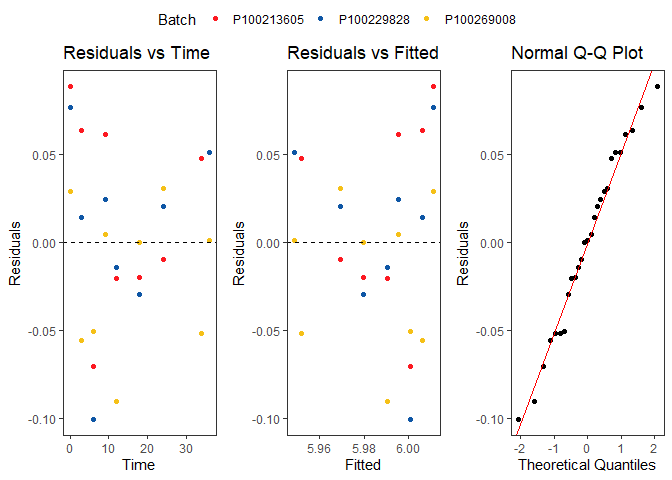
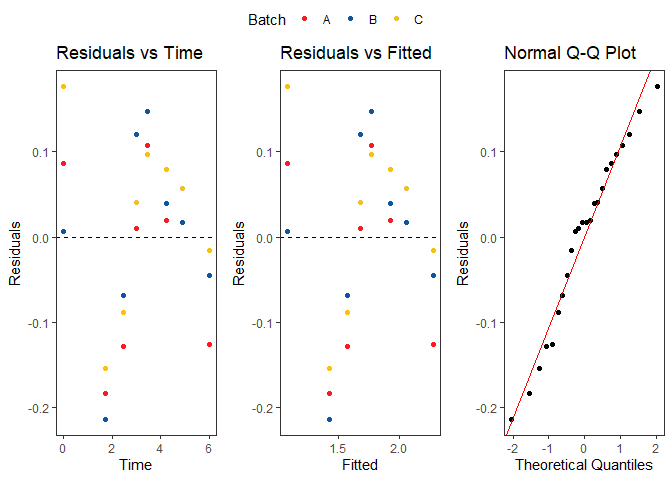
Updated Example Data

diff --git a/README.md b/README.md
@@ -26,10 +26,12 @@ pak::pak("joanna-ling/stability")
 This is a basic example which shows you how to solve a common problem:
 
 ``` r
+
+# pak::pak("joanna-ling/stability")
+
 #### Load Required Packages ####
 if (!require("pacman")) install.packages("pacman")
 #> Loading required package: pacman
-#> Warning: package 'pacman' was built under R version 4.3.2
 
 suppressMessages(
   pacman::p_load(
@@ -43,43 +45,57 @@ suppressMessages(
   )
 )
 
-# Load example dataset from stability package
-data(example_data)
+# Generate example data for a stability study
+set.seed(873951)
+example_data <- tibble(quality_attribute = c("SE HPLC HMWS", "pH", "CE Reducing Main Peak")) %>% 
+  cross_join(tibble(time_months = c(0, 3, 6, 9, 12, 18, 24, 36))) %>%
+  cross_join(tibble(batch = c("A", "B", "C"))) %>% 
+  mutate(result_value = case_when(quality_attribute == "pH" ~ round(runif(n(), min = 5.9, max = 6.1),2),
+                           quality_attribute == "SE HPLC HMWS" & time_months == 0 ~ round(rnorm(n(), mean = 1.2, sd = 0.05),2),
+                           quality_attribute == "SE HPLC HMWS" & time_months == 3 ~ round(rnorm(n(), mean = 1.3, sd = 0.05),2),
+                           quality_attribute == "SE HPLC HMWS" & time_months == 6 ~ round(rnorm(n(), mean = 1.5, sd = 0.05),2),
+                           quality_attribute == "SE HPLC HMWS" & time_months == 9 ~ round(rnorm(n(), mean = 1.7, sd = 0.05),2),
+                           quality_attribute == "SE HPLC HMWS" & time_months == 12 ~ round(rnorm(n(), mean = 1.9, sd = 0.05),2),
+                           quality_attribute == "SE HPLC HMWS" & time_months == 18 ~ round(rnorm(n(), mean = 2, sd = 0.05),2),
+                           quality_attribute == "SE HPLC HMWS" & time_months == 24 ~ round(rnorm(n(), mean = 2.1, sd = 0.05),2),
+                           quality_attribute == "SE HPLC HMWS" & time_months == 36 ~ round(rnorm(n(), mean = 2.2, sd = 0.05),2),
+                           quality_attribute == "CE Reducing Main Peak" & time_months == 0 ~ round(rnorm(n(), mean = 97, sd = 0.07),2),
+                           quality_attribute == "CE Reducing Main Peak" & time_months == 3 ~ round(rnorm(n(), mean = 96.8, sd = 0.07),2),
+                           quality_attribute == "CE Reducing Main Peak" & time_months == 6 ~ round(rnorm(n(), mean = 96.6, sd = 0.07),2),
+                           quality_attribute == "CE Reducing Main Peak" & time_months == 9 ~ round(rnorm(n(), mean = 96.4, sd = 0.07),2),
+                           quality_attribute == "CE Reducing Main Peak" & time_months == 12 ~ round(rnorm(n(), mean = 96.3, sd = 0.07),2),
+                           quality_attribute == "CE Reducing Main Peak" & time_months == 18 ~ round(rnorm(n(), mean = 96.2, sd = 0.07),2),
+                           quality_attribute == "CE Reducing Main Peak" & time_months == 24 ~ round(rnorm(n(), mean = 96.1, sd = 0.07),2),
+                           quality_attribute == "CE Reducing Main Peak" & time_months == 36 ~ round(rnorm(n(), mean = 96.0, sd = 0.07),2),
+                           TRUE ~ NA),
+         lower_limit = case_when(quality_attribute == "pH" ~ 5.8,
+                                 quality_attribute == "CE Reducing Main Peak" ~ 94.5,
+                                 TRUE ~ NA),
+         upper_limit = case_when(quality_attribute == "pH" ~ 6.2,
+                                 quality_attribute == "SE HPLC HMWS" ~ 4.3,
+                                 TRUE ~ NA),
+         units = case_when(quality_attribute == "pH" ~ "",
+                           quality_attribute == "SE HPLC HMWS" ~ "%",
+                           quality_attribute == "CE Reducing Main Peak" ~ "%",
+                           TRUE ~ NA),
+         label = case_when(quality_attribute == "pH" ~ "pH",
+                          TRUE ~ paste0(quality_attribute, " (", units, ")")),
+         time = time_months)
 
-# Clean variable names, rename variables to required names, exclude unrelated data points 
-data <- example_data %>% 
-  clean_names() %>% 
-  mutate(time = time_months,
-         batch = lot) %>% 
-  subset(!(temperature == "2 to 8°C" & time == 36)) %>% 
-  # This part is manually removing values that are different from the report... 
-  mutate(flag = case_when(quality_attribute == "SE HPLC Monomer" & result_value == 97.2 & time == 3 & batch == "P100213605" ~ 1,
-                          quality_attribute == "SE HPLC Monomer" & result_value == 97.5 & time == 3 & batch == "P100229828" ~ 1,
-                          quality_attribute == "SE HPLC Monomer" & result_value == 97.5 & time == 9 & batch == "P100229828" ~ 1,
-                          quality_attribute == "SE HPLC HMWS" & result_value == 3.0 & time == 3 & batch == "P100213605" ~ 1,
-                          quality_attribute == "SE HPLC HMWS" & result_value == 2.1 & time == 3 & batch == "P100229828" ~ 1,
-                          quality_attribute == "SE HPLC HMWS" & result_value == 2.5 & time == 9 & batch == "P100229828" ~ 1,
-                          TRUE ~ 0 )) %>% 
-  subset(flag == 0)
+
 
 # Get a dataset of distinct limits and generate clean labels 
-data_dist <- data[,c("quality_attribute","units","lower_limit","upper_limit")] %>% 
+data_dist <- example_data[,c("quality_attribute","units","label","lower_limit","upper_limit")] %>% 
   distinct() %>% 
-  subset(!is.na(lower_limit) | !is.na(upper_limit)) %>% 
-  mutate(label = case_when(units == "N/A" ~ paste0(quality_attribute),
-                           TRUE ~ paste0(quality_attribute," (",units,")")))
+  subset(!is.na(lower_limit) | !is.na(upper_limit)) 
 
 # Transform time variable where needed and generate back transform variable - trial and error
-data_transf <- data %>% 
-  mutate(time = case_when(quality_attribute == "SE HPLC Monomer" ~ sqrt(time),
-                          quality_attribute == "SE HPLC HMWS" ~ sqrt(time),
-                          quality_attribute == "CE reducing" ~ sqrt(time),
-                          quality_attribute == "CE non reducing LMWS" ~ sqrt(time),
+data_transf <- example_data %>% 
+  mutate(time = case_when(quality_attribute == "SE HPLC HMWS" ~ time^(1/2),
+                          quality_attribute == "CE Reducing Main Peak" ~ time^(1/3),
                           TRUE ~ time),
-         backtransform = case_when(quality_attribute == "SE HPLC Monomer" ~ "Time^2",
-                                   quality_attribute == "SE HPLC HMWS" ~ "Time^2",
-                                   quality_attribute == "CE reducing" ~ "Time^2",
-                                   quality_attribute == "CE non reducing LMWS" ~ "Time^2",
+         backtransform = case_when(quality_attribute == "SE HPLC HMWS" ~ "Time^2",
+                                   quality_attribute == "CE Reducing Main Peak" ~ "Time^3",
                                    TRUE ~ "Time"))
 
 # Set colours using all batches in dataset
@@ -129,48 +145,46 @@ stab[[1]]
 #> [1] "Common intercepts and Common slopes"
 #> 
 #> [[3]]
-#> # A tibble: 11 × 15
-#> # Groups:   model, batch, flag [11]
-#>    batch     time   fit lwr90 upr90 lwr95 upr95 model diff_lwr flag_lwr diff_upr
-#>    <chr>    <dbl> <dbl> <dbl> <dbl> <dbl> <dbl> <dbl>    <dbl>    <dbl>    <dbl>
-#>  1 P100213…  78.6  5.89  5.73  6.05  5.70  6.08     1  1.58e-7        1  2.15e-1
-#>  2 P100229…  71.7  5.87  5.73  6.01  5.70  6.04     1  1.28e-6        1  2.56e-1
-#>  3 P100269…  74.0  5.88  5.73  6.03  5.70  6.06     1  1.48e-6        1  2.42e-1
-#>  4 P100213… 105.   5.85  5.73  5.98  5.70  6.00     2  1.86e-6        1  2.98e-1
-#>  5 P100229…  97.8  5.84  5.72  5.96  5.70  5.98     2  2.65e-6        1  3.20e-1
-#>  6 P100269…  92.0  5.83  5.72  5.94  5.70  5.96     2  3.01e-6        1  3.38e-1
-#>  7 0         98.4  5.84  5.72  5.96  5.70  5.98     3  1.82e-6        1  3.20e-1
-#>  8 P100213…  71.4  5.91  5.74  6.07  5.70  6.11     4  1.16e-6        1  1.89e-1
-#>  9 P100213… 178.   5.71  5.25  6.18  5.13  6.30     4 -5.71e-1        1  3.01e-7
-#> 10 P100229…  64.6  5.89  5.74  6.04  5.70  6.07     4  1.79e-6        1  2.27e-1
-#> 11 P100269…  75.5  5.88  5.74  6.02  5.70  6.05     4  9.61e-7        1  2.47e-1
-#> # ℹ 4 more variables: flag_upr <dbl>, flag <chr>, rn <int>, level <dbl>
+#> # A tibble: 10 × 12
+#> # Groups:   model, batch, flag [10]
+#>    batch  time   fit lwr90 upr90 lwr95 upr95 model       diff  flag    rn level
+#>    <chr> <dbl> <dbl> <dbl> <dbl> <dbl> <dbl> <dbl>      <dbl> <dbl> <int> <dbl>
+#>  1 A      14.3  3.85  3.40  4.30  3.30  4.40     1 0.000214       1     1    90
+#>  2 B      13.3  3.89  3.47  4.30  3.38  4.39     1 0.000188       1     1    90
+#>  3 C      13.9  3.86  3.42  4.30  3.33  4.39     1 0.0000733      1     1    90
+#>  4 A      14.8  4.03  3.77  4.30  3.71  4.36     2 0.0000552      1     1    90
+#>  5 B      14.7  4.04  3.77  4.30  3.72  4.36     2 0.0000830      1     1    90
+#>  6 C      14.6  4.04  3.78  4.30  3.72  4.35     2 0.0000186      1     1    90
+#>  7 0      14.7  4.05  3.80  4.30  3.75  4.35     3 0.000156       1     1    90
+#>  8 A      14.1  3.81  3.32  4.30  3.19  4.43     4 0.000188       1     1    90
+#>  9 B      13.1  3.83  3.36  4.30  3.24  4.42     4 0.000121       1     1    90
+#> 10 C      13.8  3.83  3.35  4.30  3.23  4.42     4 0.00000499     1     1    90
 #> 
 #> [[4]]
 #> # A tibble: 18 × 6
-#>    model parameter             Estimate `Std. Error` `t value` `Pr(>|t|)`
-#>    <dbl> <chr>                    <dbl>        <dbl>     <dbl>      <dbl>
-#>  1     1 Intercept: P100213605  6.03        0.0290      208.     2.70e-36
-#>  2     1 Slope: P100213605     -0.00179     0.00145      -1.24   2.28e- 1
-#>  3     1 Intercept: P100229828  6.01        0.0290      207.     2.90e-36
-#>  4     1 Slope: P100229828     -0.00197     0.00145      -1.37   1.86e- 1
-#>  5     1 Intercept: P100269008  5.99        0.0290      206.     3.19e-36
-#>  6     1 Slope: P100269008     -0.00145     0.00145      -1.00   3.27e- 1
-#>  7     2 Slope                 -0.00174     0.000799     -2.18   3.99e- 2
-#>  8     2 Intercept: P100213605  6.03        0.0213      284.     2.89e-42
-#>  9     2 Intercept: P100229828  6.01        0.0213      283.     3.15e-42
-#> 10     2 Intercept: P100269008  5.99        0.0213      282.     3.39e-42
-#> 11     3 Slope                 -0.00174     0.000814     -2.14   4.27e- 2
-#> 12     3 Intercept              6.01        0.0163      368.     3.35e-48
-#> 13     4 Slope: P100213605     -0.00179     0.00152      -1.18   2.78e- 1
-#> 14     4 Intercept: P100213605  6.03        0.0306      197.     2.26e-14
-#> 15     4 Slope: P100229828     -0.00197     0.00156      -1.26   2.47e- 1
-#> 16     4 Intercept: P100229828  6.01        0.0314      192.     2.77e-14
-#> 17     4 Slope: P100269008     -0.00145     0.00122      -1.18   2.75e- 1
-#> 18     4 Intercept: P100269008  5.99        0.0246      244.     5.17e-15
+#>    model parameter    Estimate `Std. Error` `t value` `Pr(>|t|)`
+#>    <dbl> <chr>           <dbl>        <dbl>     <dbl>      <dbl>
+#>  1     1 Intercept: A    1.07        0.0857     12.5    2.58e-10
+#>  2     1 Slope: A        0.195       0.0233      8.34   1.35e- 7
+#>  3     1 Intercept: B    1.03        0.0857     12.1    4.60e-10
+#>  4     1 Slope: B        0.214       0.0233      9.17   3.31e- 8
+#>  5     1 Intercept: C    1.11        0.0857     13.0    1.40e-10
+#>  6     1 Slope: C        0.197       0.0233      8.44   1.13e- 7
+#>  7     2 Slope           0.202       0.0129     15.6    1.14e-12
+#>  8     2 Intercept: A    1.05        0.0574     18.3    5.99e-14
+#>  9     2 Intercept: B    1.07        0.0574     18.7    3.84e-14
+#> 10     2 Intercept: C    1.10        0.0574     19.1    2.53e-14
+#> 11     3 Slope           0.202       0.0126     16.1    1.21e-13
+#> 12     3 Intercept       1.07        0.0461     23.3    5.51e-17
+#> 13     4 Slope: A        0.195       0.0230      8.45   1.50e- 4
+#> 14     4 Intercept: A    1.07        0.0847     12.7    1.48e- 5
+#> 15     4 Slope: B        0.214       0.0241      8.89   1.13e- 4
+#> 16     4 Intercept: B    1.03        0.0885     11.7    2.36e- 5
+#> 17     4 Slope: C        0.197       0.0229      8.62   1.34e- 4
+#> 18     4 Intercept: C    1.11        0.0840     13.3    1.14e- 5
 #> 
 #> [[5]]
-#> [1] 98.382
+#> [1] 180
 #> 
 #> [[6]]
 ```
